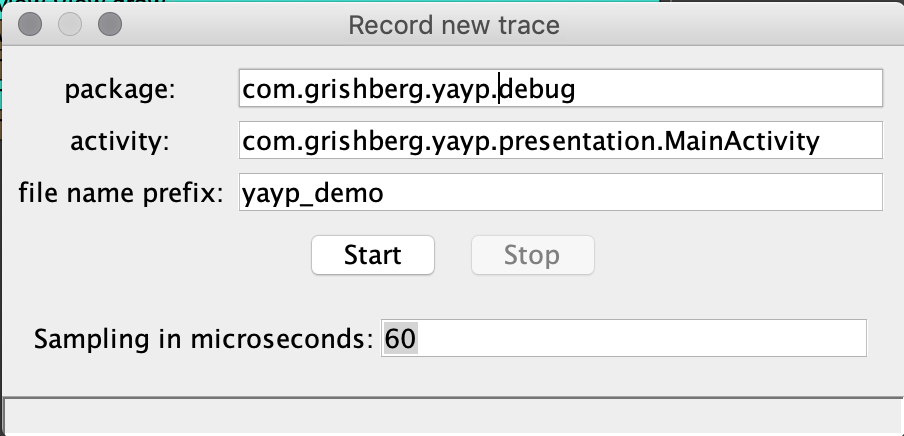
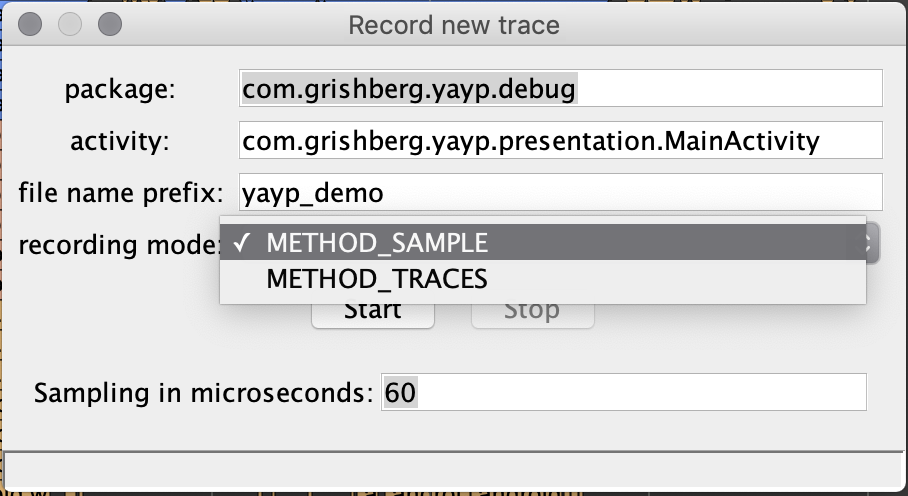
recording mode description

diff --git a/README.md b/README.md
@@ -95,8 +95,7 @@ who has AndroidMethodsProfiler v20.06.22.0 or newer.
 After first launch you will see enter android sdk home dialog, please 
 enter path to Android SDK Home like `$ANDROID_HOME` and it will be stored in settings file
 
-![Add bookmarks](assets/setup.png)
-
+![Setup Android SDK](assets/setup.png)
 
 After clicking on *New Trace* icon or pressing *Ctrl + n* record new trace dialog will be opened.
 Saved `.trace` files will be placed in `$HOME/android-profile-viewer/trace` folder
@@ -107,6 +106,12 @@ If activity field is empty - you need to start application manually, or it can a
 
 Sampling parameter: The lower the value, the more accurate the report will be, but the greater the load on the mobile phone CPU. For old device, like nexus 5X I prefer 1000 microseconds.
  
+You can select is two record mode: 
+- **Sample Java Methods** : Captures your app’s call stack at frequent intervals during your app’s Java-based code execution.
+- **Trace Java Methods** : Instruments your app at runtime to record a timestamp at the beginning and end of each method call.
+
+[More information about recording modes](https://developer.android.com/studio/profile/cpu-profiler#configurations)
+
 ![Record new trace](assets/record_new_trace.png)
 
 ## Report generator
